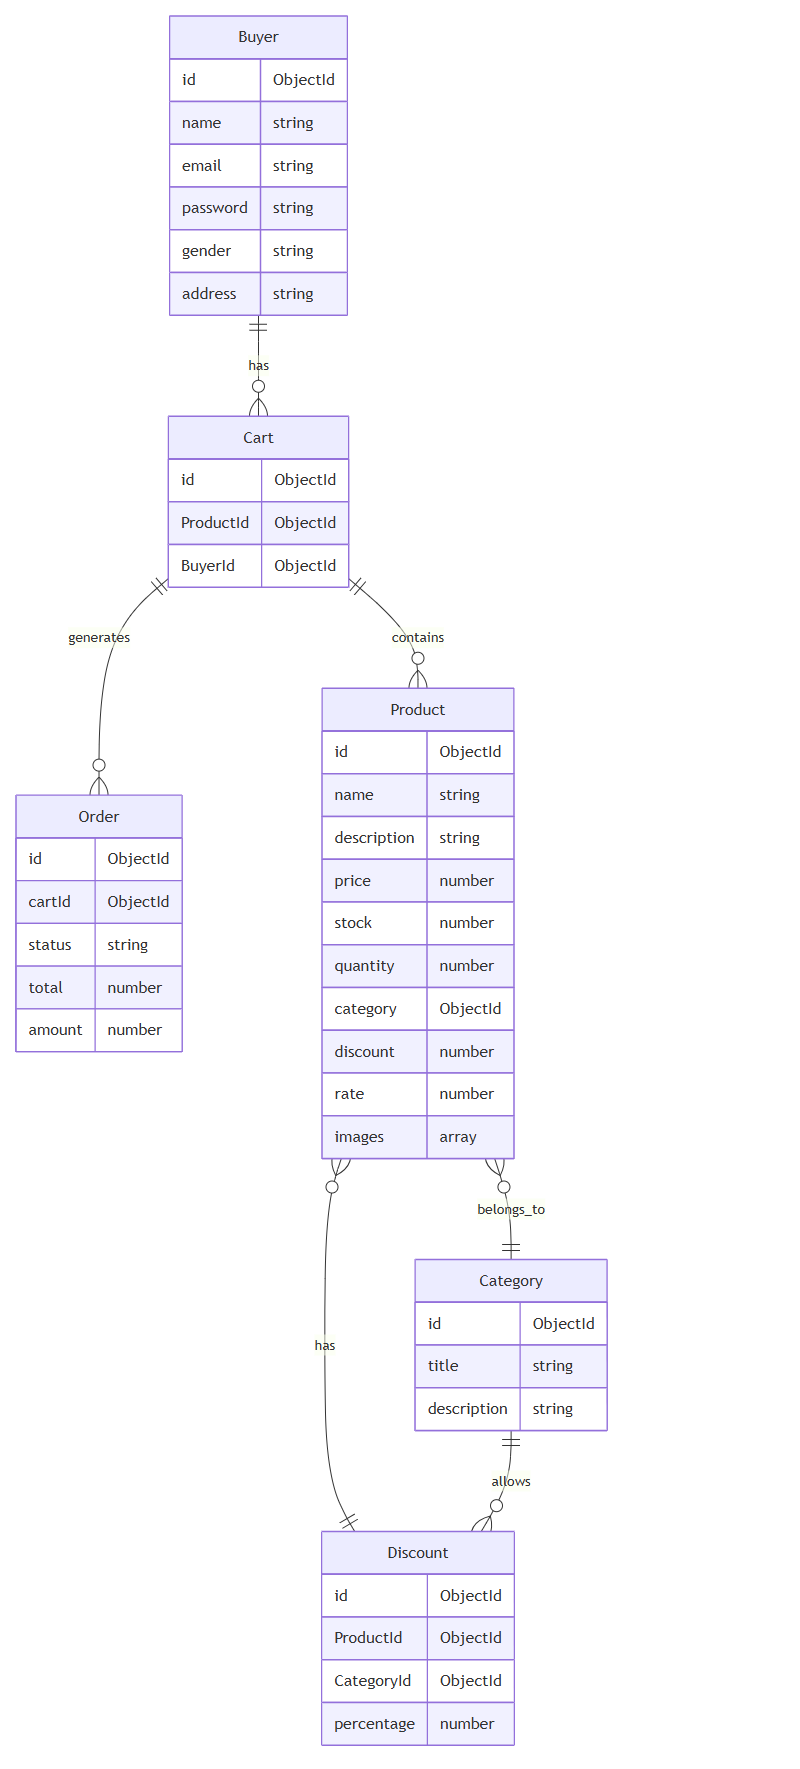
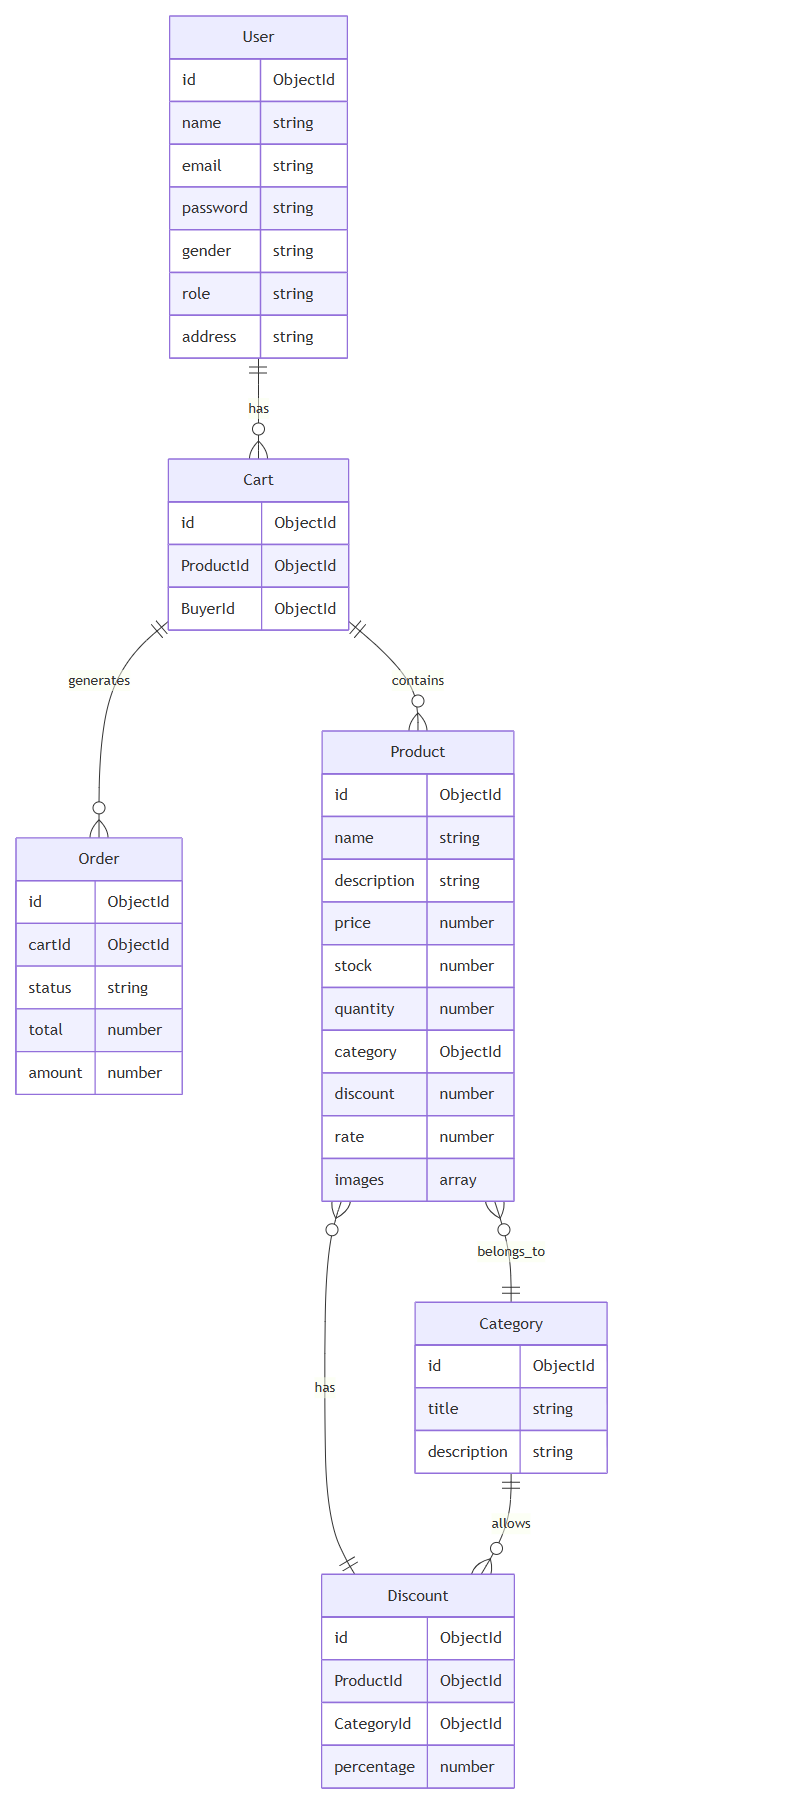
test: test deploy

diff --git a/routes/index.js b/routes/index.js
@@ -1,7 +1,6 @@
 import express from "express";
-// import productrouest from "../controllers/productController.js";
+import productroute from "./productRouter.js";
 const router = express.Router();
-
-// app.use("/products", productrouest);
+router.use("/products", productroute);
 
 export default router;

diff --git a/middlewares/routesHanldler.js b/middlewares/routesHanldler.js
@@ -11,6 +11,6 @@ export const errorDisplay = (err, req, res, next) => {
   res.status(err.statusCode || 500).json({
     status: err.statusCode || 500,
     success: FAIL,
-    msg: err.message || "Internal Server Error",
+    message: err.message || "Internal Server Error",
   });
 };

diff --git a/routes/productRouter.js b/routes/productRouter.js
@@ -1,0 +1,6 @@
+import express from "express";
+import getAll from "../controllers/products/getAll.js";
+const router = express.Router();
+
+router.get("/", getAll);
+export default router;

diff --git a/controllers/products/getAll.js b/controllers/products/getAll.js
@@ -1,0 +1,4 @@
+const getAll = (req, res) => {
+  res.send("Get All Products");
+};
+export default getAll;

diff --git a/docs/ERD.md b/docs/ERD.md
@@ -1,11 +1,12 @@
 ```mermaid
 erDiagram
-    Buyer {
+    User {
         id ObjectId
         name string
         email string
         password string
         gender string
+        role string
         address string
     }
 
@@ -49,7 +50,7 @@ erDiagram
         images array
     }
 
-    Buyer ||--o{ Cart : has
+    User ||--o{ Cart : has
     Cart ||--o{ Product : contains
     Cart ||--o{ Order : generates
     Product }o--|| Category : belongs_to
